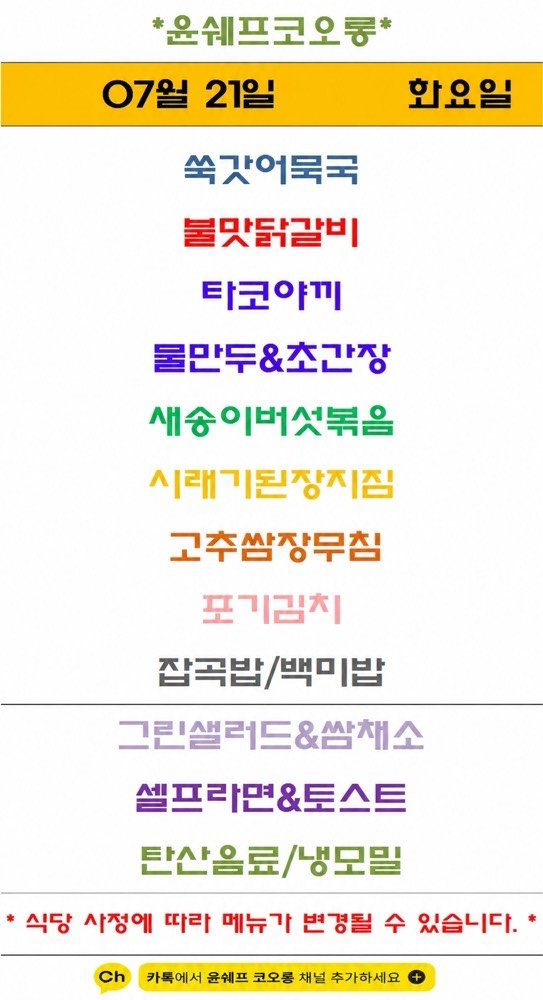
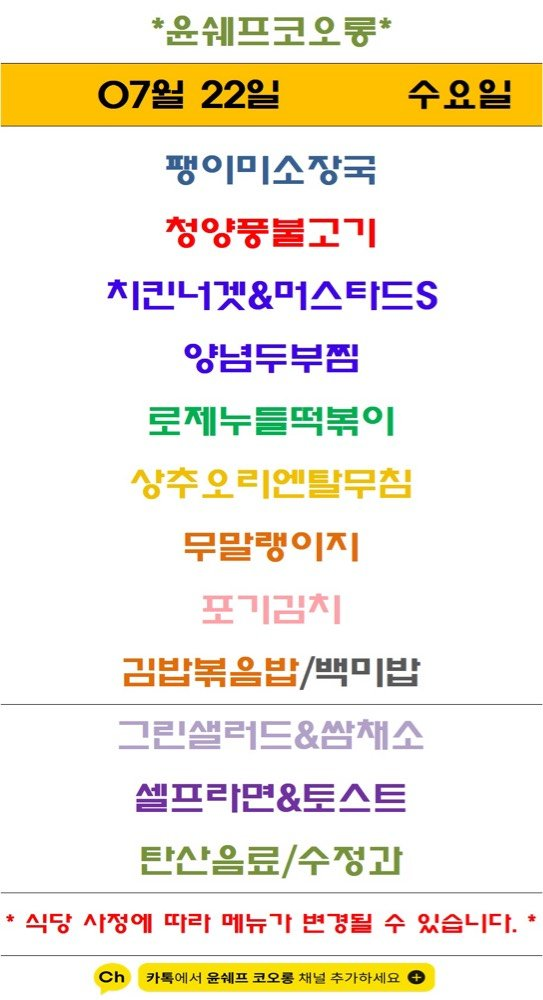
Update menu board assets

diff --git a/menu-today/index.html b/menu-today/index.html
@@ -209,7 +209,7 @@
 
     <section class="meta-bar">
       <div class="meta-card"><div class="meta-label">기준 날짜</div><div class="meta-value">2026년 7월 22일 수요일</div></div>
-      <div class="meta-card"><div class="meta-label">최종 가져온 시간</div><div class="meta-value">2026-07-22 09:03:17</div></div>
+      <div class="meta-card"><div class="meta-label">최종 가져온 시간</div><div class="meta-value">2026-07-22 09:13:21</div></div>
       <div class="meta-card"><div class="meta-label">확인 완료</div><div class="meta-value">9개 식당</div></div>
       <div class="meta-card"><div class="meta-label">준비중</div><div class="meta-value">3개 채널</div></div>
     </section>
@@ -255,7 +255,7 @@
             <div class="sub">디폴리스지식산업센터</div>
           </div>
         </div>
-        <div class="menu-inline-image"><img src="./images/dipolis.png" alt="디폴리스 구내식당 식단 이미지"></div><ul><li>잡곡밥 / 협쌀밥</li><li>제육고추장불고기</li><li>탕수육. 물만두 탕수</li><li>구수한 S / 달콤한 식혜</li><li>돈육 짜장 덮밥 &amp; 짜장면</li><li>가쓰오 유부 장국</li><li>Me 가지 볶음 / 반달 단무지</li><li>치커리 야채 샐러드</li><li>겉절이 김치</li><li>&amp; 맛있게 드세요 .?</li><li>팀 수록 물만</li></ul>
+        <div class="menu-inline-image"><img src="./images/dipolis.png" alt="디폴리스 구내식당 식단 이미지"></div><ul><li>잡곡밥 / 협쌀밥</li><li>제육 고추장 불고기</li><li>탕수육. 물만두 탕수</li><li>구수한 S / 달콤한 식혜</li><li>돈육 짜장 덮밥 &amp; 짜장면</li><li>가쓰오 유부 장국</li><li>Me 가지 볶음 / 반달 단무지</li><li>치커리 야채 샐러드</li><li>겉절이 김치</li><li>&amp; 맛있게 드세요 .?</li><li>팀 수록 물만</li></ul>
       </article>
 
       <article class="restaurant-card">
@@ -295,7 +295,7 @@
             <div class="sub">에이스테크노타워10차</div>
           </div>
         </div>
-        <div class="menu-inline-image"><img src="./images/thefoodsketch.png" alt="더푸드스케치 식단 이미지"></div><ul><li>공나물애장국</li><li>견과류수제꿔바로우</li><li>미나리직화쑤꾸미볶음</li><li>J 두부구이 / 양념장</li><li>버섯잡채</li><li>딕 버터감자조림</li><li>고구마순나물</li><li>다시마 / 브로콜리초외</li><li>가든샐러드 &amp; 드레싱</li><li>김치볶음 / 음료</li><li>그 두부구이 / 양념장</li></ul>
+        <div class="menu-inline-image"><img src="./images/thefoodsketch.png" alt="더푸드스케치 식단 이미지"></div><ul><li>공나물애장국</li><li>견과류수제꿔바로우</li><li>미나리직화쑤꾸미볶음</li><li>J 두부구이 / 양념장</li><li>버섯잡채</li><li>딕 버터감자조림</li><li>고구마순나물</li><li>다시마 / 브로콜리초외</li><li>가든샐러드 / 드레싱</li><li>김치볶음 / 음료</li><li>그 두부구이 / 양념장</li></ul>
       </article>
 
       <article class="restaurant-card">

diff --git a/guro-menu/index.html b/guro-menu/index.html
@@ -32,7 +32,7 @@
   </header>
   <section class="meta">
     <div><small>기준 날짜</small><strong>2026년 7월 22일 수요일</strong></div>
-    <div><small>최종 갱신</small><strong>2026-07-22 09:03:30</strong></div>
+    <div><small>최종 갱신</small><strong>2026-07-22 09:13:34</strong></div>
     <div><small>등록 식당</small><strong>5개</strong></div>
   </section>
   <div class="notice">공개 카카오 채널의 메뉴 이미지를 자동 수집하고 OCR로 정리합니다. 텍스트에 오타가 있을 수 있으니 식단 이미지를 함께 확인해 주세요.</div>
@@ -103,8 +103,8 @@
           <a class="channel" href="https://pf.kakao.com/_Xxhxkhs" target="_blank" rel="noopener">원본 채널</a>
         </div>
         <img class="menu-image" src="./images/yoon-chef-kolon.png" alt="윤쉐프 코오롱 식단 이미지" loading="lazy">
-        <p class="message">최신 공개 식단 이미지의 텍스트입니다. 날짜는 원본 이미지를 확인해 주세요.</p>
-        <ul><li>쑥갓어묵국</li><li>불맛닭갈비</li><li>타코야피</li><li>물만두&amp;조관장</li><li>새송이버섯볶음</li><li>고주쌈장무침</li><li>셀프라면&amp;토스트</li><li>탄슨『올료/냉모밀</li></ul>
+        
+        <ul><li>팽이미소장국</li><li>양념두부찜</li><li>로제누들떡볶이</li><li>무말랭이지</li><li>검밥볶음밥/백미밥</li><li>그린샐러드&amp;삼재소</li><li>셀프라면&amp;토스트</li><li>탄슨『음료/수정과</li></ul>
       </article>
   </section>
   <section class="seo" aria-label="검색 정보">한신IT타워 구내식당 자연푸드 구내식당 더이츠푸드 벽산더이룸 윤쉐프 코오롱 한신IT타워 벽산디지털밸리7차 대륭포스트타워1차 벽산디지털밸리1차 코오롱싸이언스밸리1차 서울 구로구 디지털로 272 한신IT타워 지하1층 서울 구로구 디지털로33길 50 벽산디지털밸리7차 지하1층 서울 구로구 디지털로 288 대륭포스트타워1차 지하1층 서울 구로구 디지털로27길 24 벽산디지털밸리1차 지하1층 서울 구로구 디지털로34길 43 코오롱싸이언스밸리1차 지하1층</section>
